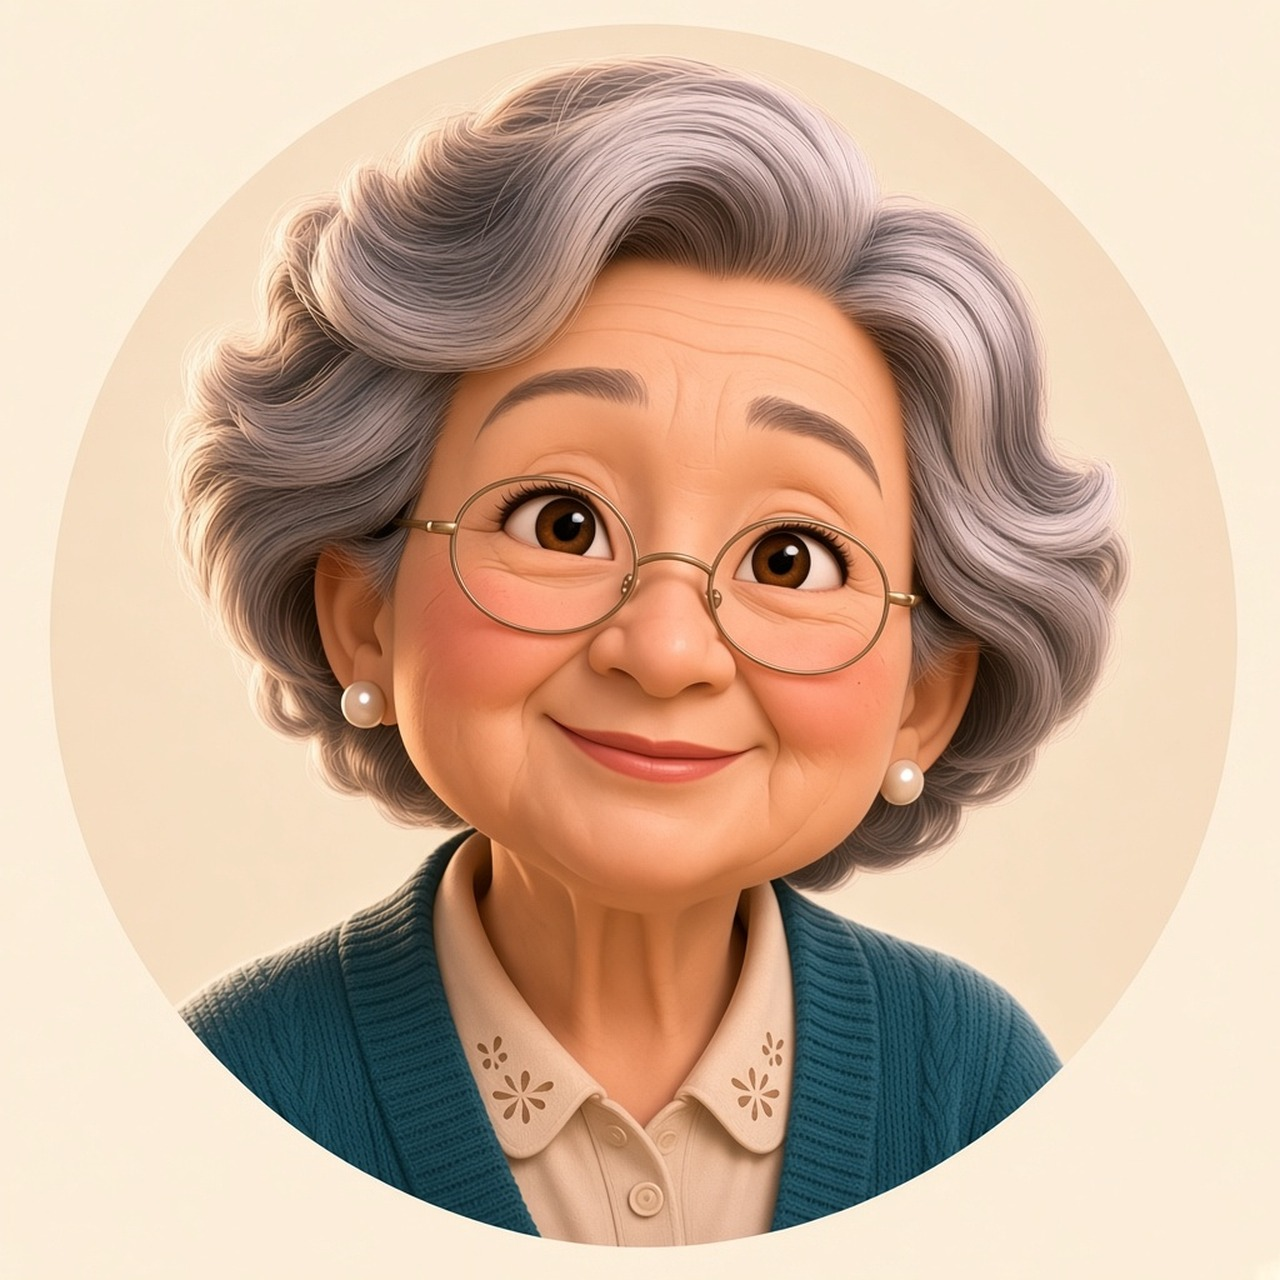
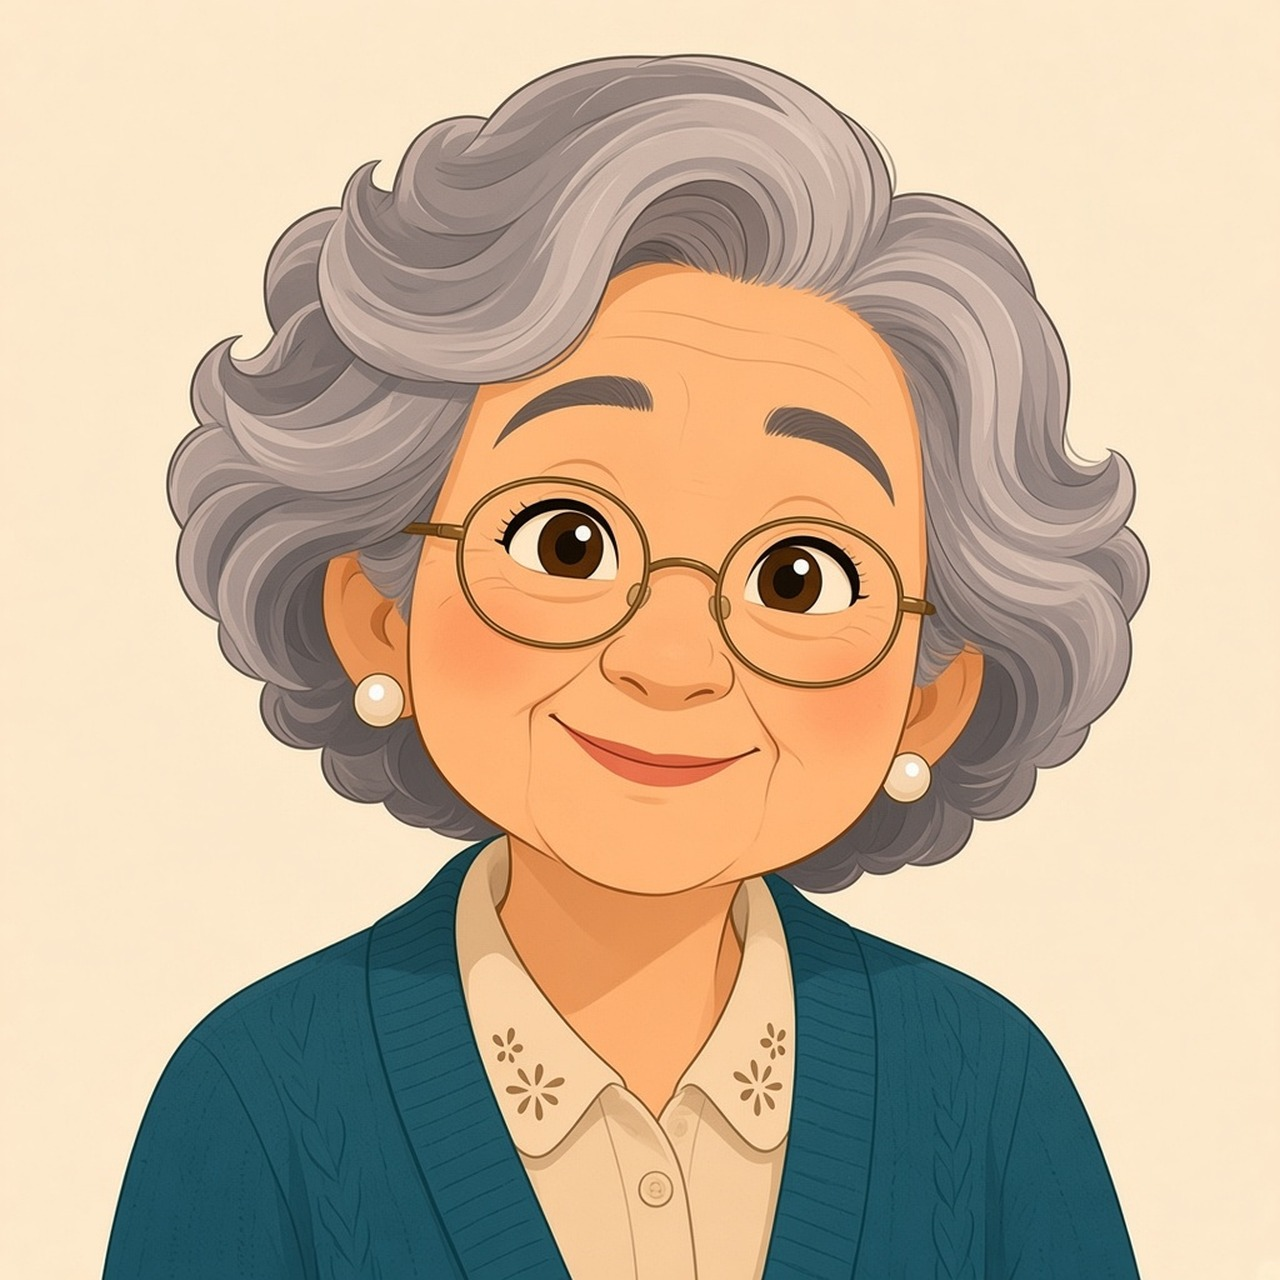
Aunt Mary Bot v8: warmer kid-friendly cartoon room style
- Soften entry room away from photoreal CGI / uncanny valley
- Keep Aunt Mary cues: grey hair, glasses, teal cardigan
- Match waiting/answering avatars to same illustration style
- Cache-bust ?v=8

diff --git a/aunt-mary-bot/index.html b/aunt-mary-bot/index.html
@@ -32,7 +32,7 @@
   .room-bg {
     position: absolute; inset: -1.5%;
     background: #000 center/cover no-repeat;
-    background-image: url("room-scene.jpg?v=7");
+    background-image: url("room-scene.jpg?v=8");
     animation: roomBreathe 6.5s ease-in-out infinite;
     will-change: transform;
   }
@@ -386,7 +386,7 @@
     <div class="lamp-glow" aria-hidden="true"></div>
     <div class="letter-float" aria-hidden="true" title="letter">
       <div class="spark"></div>
-      <img src="letter-float.png?v=7" alt="" />
+      <img src="letter-float.png?v=8" alt="" />
     </div>
 
     <div class="hud-top">
@@ -406,8 +406,8 @@
       <div class="dock">
         <div class="avatar-col">
           <div class="avatar-frame" id="avatarFrame">
-            <img id="avWait" src="avatar-waiting.jpg?v=7" alt="Aunt Mary waiting" />
-            <img id="avTalk" src="avatar-answering.jpg?v=7" alt="Aunt Mary answering" />
+            <img id="avWait" src="avatar-waiting.jpg?v=8" alt="Aunt Mary waiting" />
+            <img id="avTalk" src="avatar-answering.jpg?v=8" alt="Aunt Mary answering" />
           </div>
           <div class="avatar-name">Aunt Mary</div>
           <div class="mood" id="mood">Listening…</div>
@@ -433,13 +433,13 @@
 
 <script>
 const ILLUST = {
-  question: { src: "illust-question.jpg?v=7", cap: "?", mark: "", markText: "" },
-  email: { src: "illust-email.jpg?v=7", cap: "e-mail", mark: "cross", markText: "✗" },
-  mobile: { src: "illust-mobile.jpg?v=7", cap: "mobile phones", mark: "cross", markText: "✗" },
-  mp3: { src: "illust-mp3.jpg?v=7", cap: "MP3 players", mark: "cross", markText: "✗" },
-  letter: { src: "illust-letter.jpg?v=7", cap: "letter", mark: "tick", markText: "✓" },
-  telephone: { src: "illust-telephone.jpg?v=7", cap: "telephones", mark: "tick", markText: "✓" },
-  radio: { src: "illust-radio.jpg?v=7", cap: "radio", mark: "tick", markText: "✓" }
+  question: { src: "illust-question.jpg?v=8", cap: "?", mark: "", markText: "" },
+  email: { src: "illust-email.jpg?v=8", cap: "e-mail", mark: "cross", markText: "✗" },
+  mobile: { src: "illust-mobile.jpg?v=8", cap: "mobile phones", mark: "cross", markText: "✗" },
+  mp3: { src: "illust-mp3.jpg?v=8", cap: "MP3 players", mark: "cross", markText: "✗" },
+  letter: { src: "illust-letter.jpg?v=8", cap: "letter", mark: "tick", markText: "✓" },
+  telephone: { src: "illust-telephone.jpg?v=8", cap: "telephones", mark: "tick", markText: "✓" },
+  radio: { src: "illust-radio.jpg?v=8", cap: "radio", mark: "tick", markText: "✓" }
 };
 
 const QUESTIONS = [
